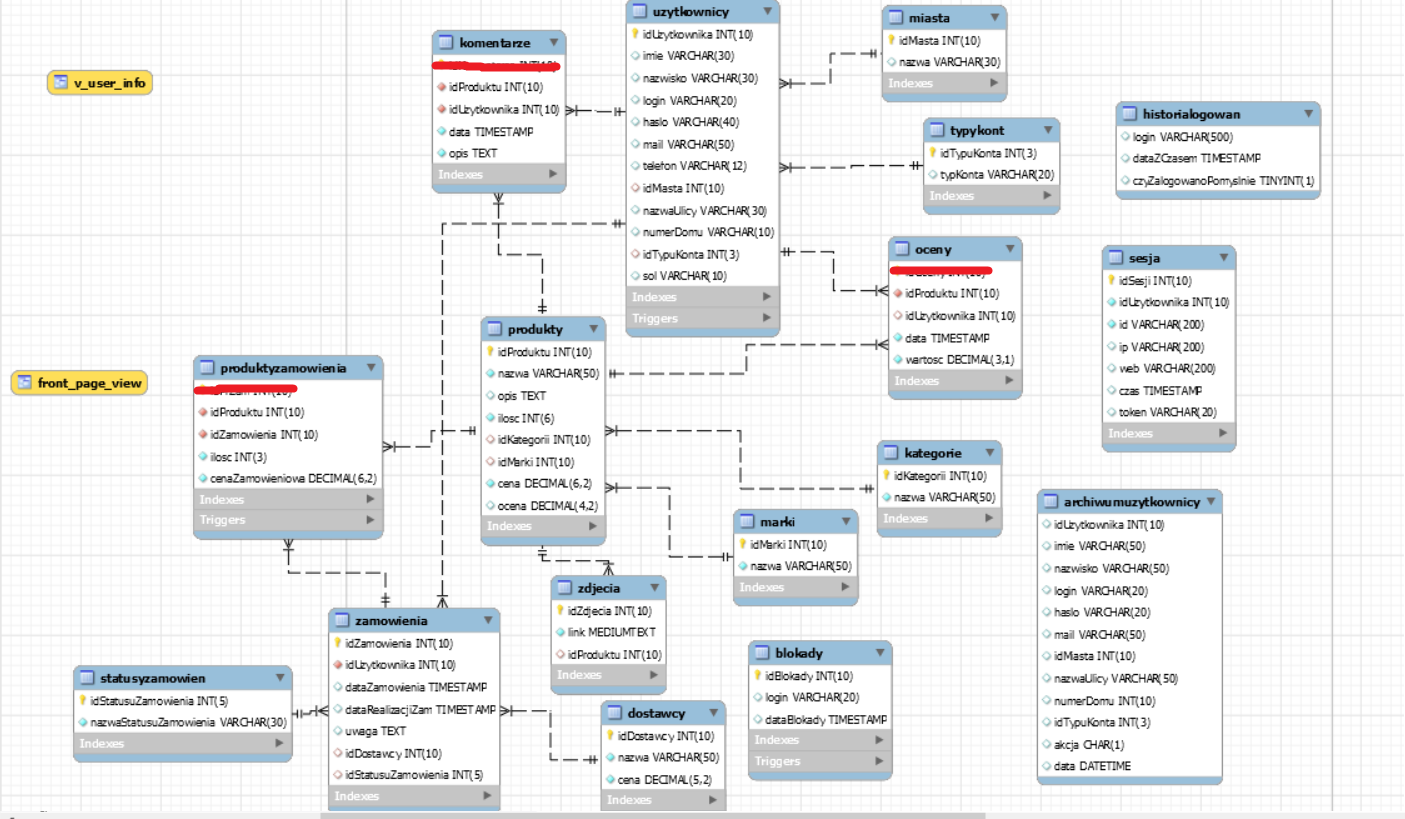
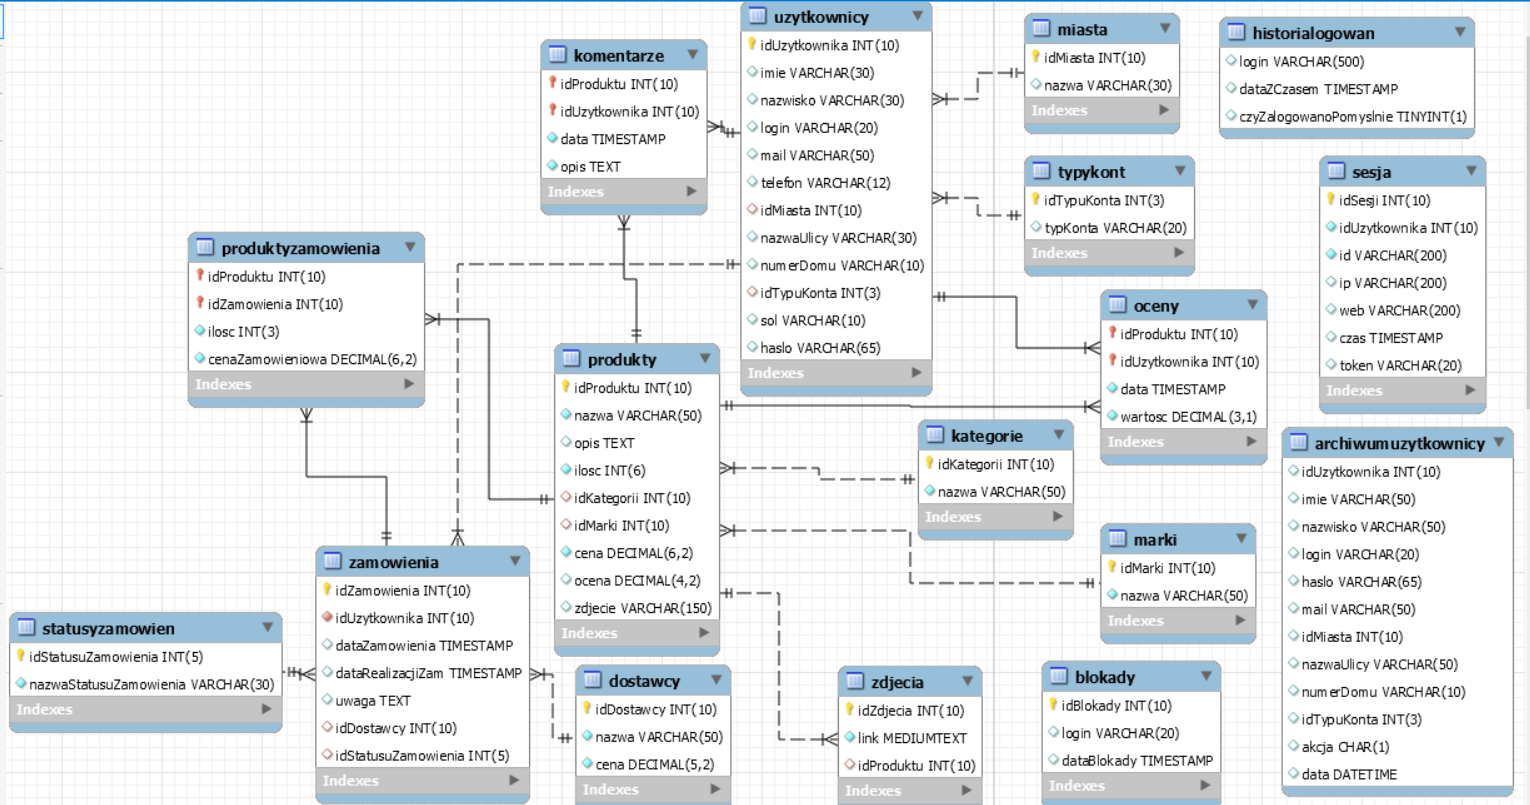
Update Hibernate in pojos + update new erd diagram

diff --git a/src/main/java/POJO/User.java b/src/main/java/POJO/User.java
@@ -18,48 +18,48 @@ public class User {
     @Column(name = "idUzytkownika",unique = true, nullable = false)
     private int idUser;
 
-    @Column(name="imie")
+    @Column(name="imie",length = 30)
     private String firstName;
 
-    @Column(name="nazwisko")
+    @Column(name="nazwisko",length = 30)
     private String lastName;
 
-    @Column(name="login")
+    @Column(name="login",length = 20)
     private String login;
 
-    @Column(name="haslo")
+    @Column(name="haslo",length = 65)
     private String password;
 
-    @Column(name="mail")
+    @Column(name="mail",length=50)
     private String email;
 
-    @Column(name="telefon")
+    @Column(name="telefon",length = 12)
     private String phone;
 
-    @Column(name="sol")
+    @Column(name="sol",length = 10)
     private String salt;
 
     @ManyToOne(fetch = FetchType.LAZY)
     @JoinColumn(name = "idMiasta")
     private City city;
 
-    @Column(name="nazwaUlicy")
+    @Column(name="nazwaUlicy",length = 30)
     private String streetName;
 
-    @Column(name="numerDomu")
+    @Column(name="numerDomu",length = 10)
     private String houseNumber;
     
     @ManyToOne(fetch = FetchType.EAGER)
     @JoinColumn(name = "idTypuKonta")
     private AccountType accountType;
 
-    @OneToMany(fetch = FetchType.LAZY, mappedBy = "idComment.user")
+    @OneToMany(fetch = FetchType.LAZY, mappedBy = "idComment.user",cascade=CascadeType.ALL)
     private List<Comment> comments=null;
 
-    @OneToMany(fetch = FetchType.LAZY, mappedBy = "idRate.user")
+    @OneToMany(fetch = FetchType.LAZY, mappedBy = "idRate.user",cascade=CascadeType.ALL)
     private List<Rate> rates=null;
 
-    @OneToMany(fetch = FetchType.LAZY, mappedBy = "user")
+    @OneToMany(fetch = FetchType.LAZY, mappedBy = "user",cascade=CascadeType.ALL)
     private List<Order> orders=null;
 
     public User(){}

diff --git a/src/main/java/POJO/Comment.java b/src/main/java/POJO/Comment.java
@@ -1,7 +1,9 @@
 package POJO;
 
+import org.hibernate.annotations.Type;
+
 import javax.persistence.*;
-import java.security.Timestamp;
+import java.sql.Timestamp;
 
 /**
  * Created by Miłosz on 18.03.2017.
@@ -23,7 +25,19 @@ public class Comment {
     private Timestamp datetime;
 
     @Column(name="opis")
+    @Type(type="text")
     private String description;
+
+    @PrePersist
+    protected void onCreate() {
+        datetime = new Timestamp(System.currentTimeMillis());
+    }
+
+    @PreUpdate
+    protected void onUpdate() {
+        datetime = new Timestamp(System.currentTimeMillis());
+    }
+
 
     public Comment(){}
 

diff --git a/src/main/java/POJO/LoggingHistory.java b/src/main/java/POJO/LoggingHistory.java
@@ -2,7 +2,7 @@ package POJO;
 
 import javax.persistence.*;
 import java.nio.BufferOverflowException;
-import java.security.Timestamp;
+import java.sql.Timestamp;
 
 /**
  * Created by Miłosz on 18.03.2017.
@@ -16,7 +16,7 @@ public class LoggingHistory {
     @Column(name = "login",unique = true, nullable = false)
     private String login;
 
-    @Temporal(TemporalType.TIMESTAMP)
+    //@Temporal(TemporalType.TIMESTAMP)
     @Column(name ="dataZCzasem")
     private Timestamp datetime;
 

diff --git a/src/main/java/POJO/Rate.java b/src/main/java/POJO/Rate.java
@@ -2,7 +2,7 @@ package POJO;
 
 import javax.persistence.*;
 import java.nio.BufferOverflowException;
-import java.security.Timestamp;
+import java.sql.Timestamp;
 
 /**
  * Created by Miłosz on 18.03.2017.

diff --git a/src/main/java/POJO/Order.java b/src/main/java/POJO/Order.java
@@ -1,8 +1,8 @@
 package POJO;
 
 import javax.persistence.*;
-import java.security.Timestamp;
-import java.sql.Time;
+import java.sql.Timestamp;
+
 import java.util.List;
 
 /**
